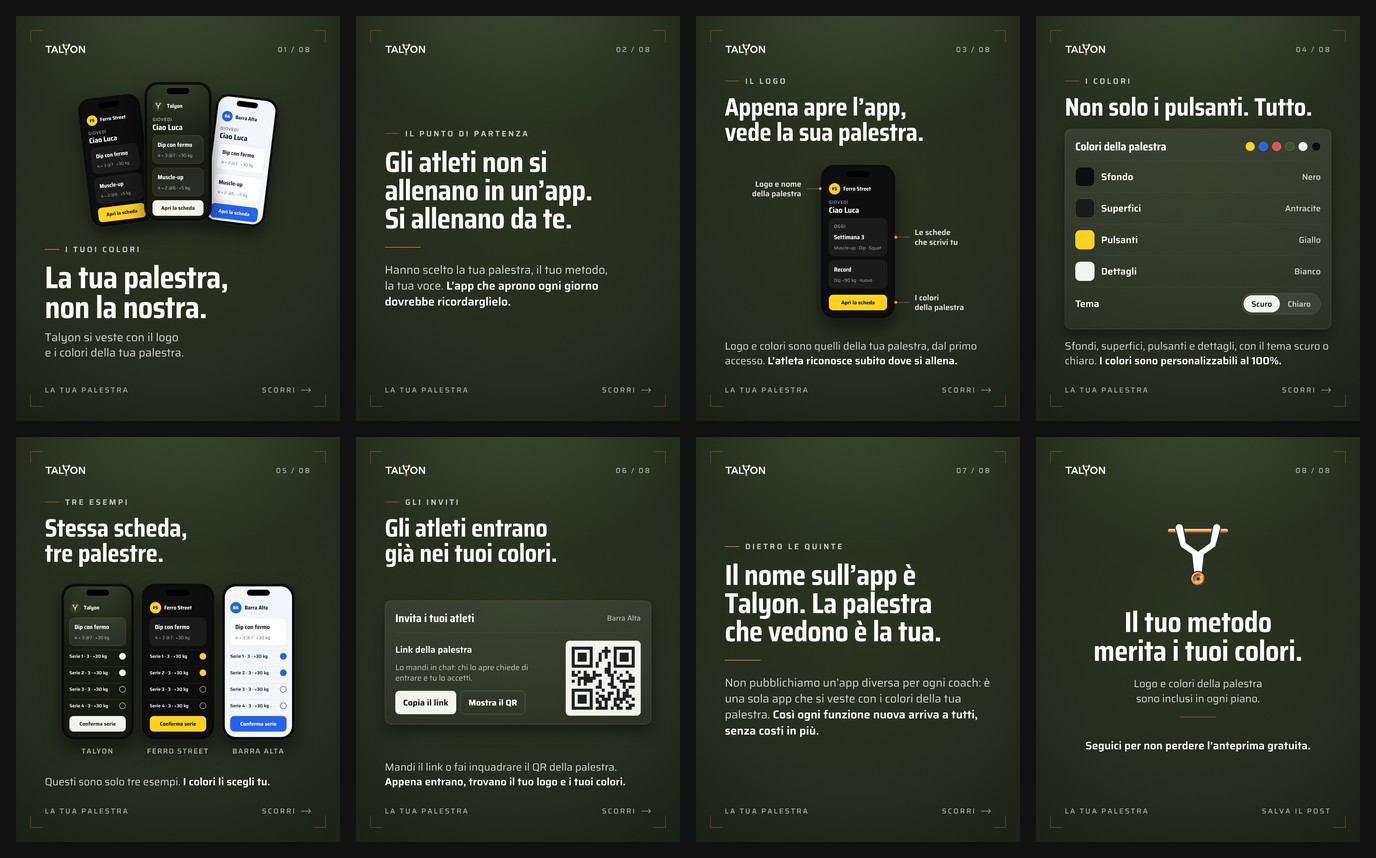
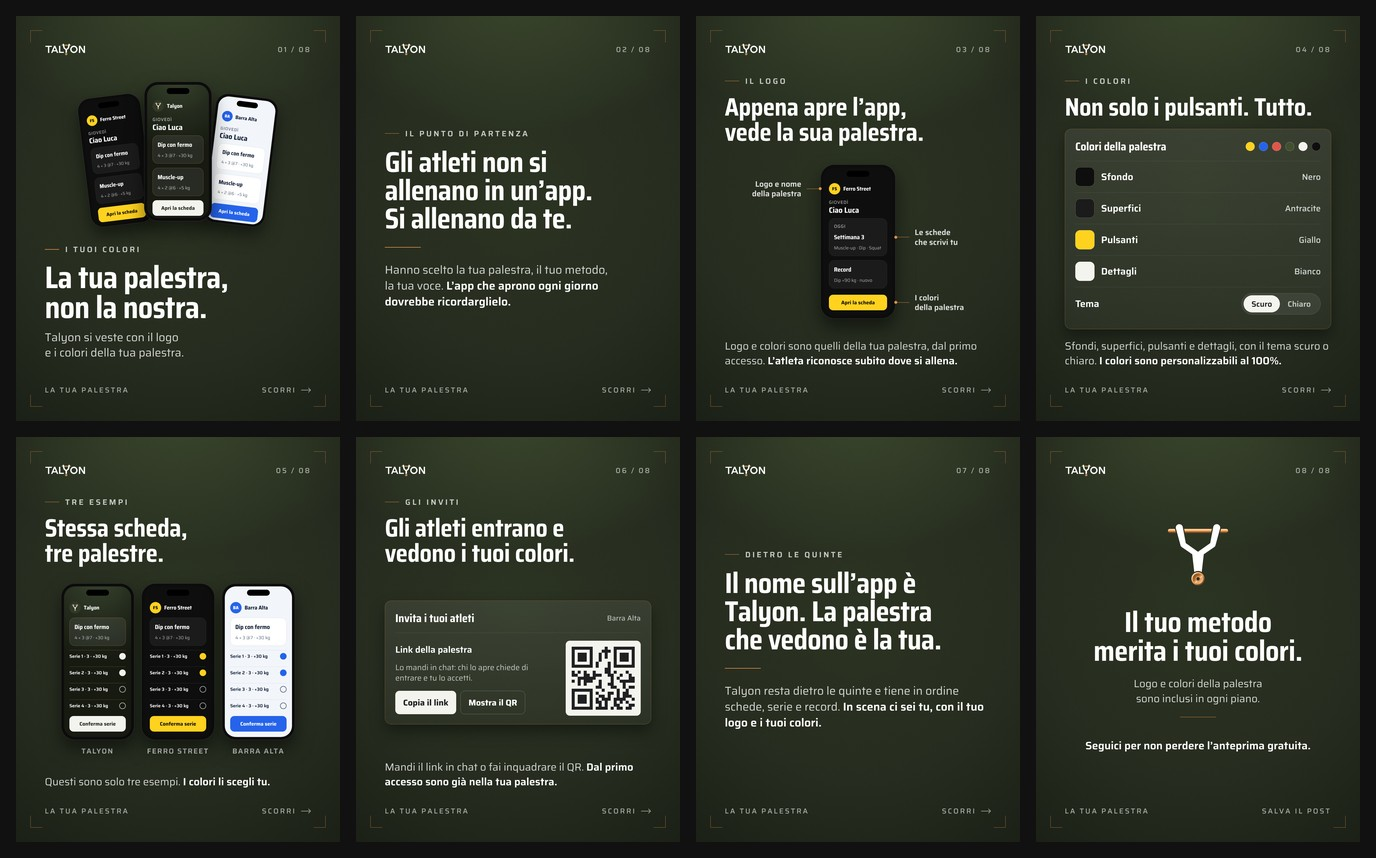
C05: nuovo titolo della slide 6 e testo della slide 7 in positivo
Claude-Session: https://claude.ai/code/session_01T254NvVD7skb81AqVxhgS6

diff --git a/caroselli/C05-la-tua-palestra/carosello.html b/caroselli/C05-la-tua-palestra/carosello.html
@@ -174,7 +174,7 @@
 <!-- 06 · Gli inviti -->
 <section class="slide" data-tipo="contenuto">
   <p class="etichetta">Gli inviti</p>
-  <h1>Gli atleti entrano già nei tuoi colori.</h1>
+  <h1>Gli atleti entrano e vedono i tuoi colori.</h1>
   <div class="visual">
     <div class="pannello">
       <div class="intestazione"><span>Invita i tuoi atleti</span><small>Barra Alta</small></div>
@@ -188,7 +188,7 @@
       </div>
     </div>
   </div>
-  <p class="testo">Mandi il link o fai inquadrare il QR della palestra. <b>Appena entrano, trovano il tuo logo e i tuoi colori.</b></p>
+  <p class="testo">Mandi il link in chat o fai inquadrare il QR. <b>Dal primo accesso sono già nella tua palestra.</b></p>
 </section>
 
 <!-- 07 · Dietro le quinte -->
@@ -196,7 +196,7 @@
   <p class="etichetta">Dietro le quinte</p>
   <h1>Il nome sull’app è Talyon. La palestra che vedono è la tua.</h1>
   <div class="linea"></div>
-  <p class="testo">Non pubblichiamo un’app diversa per ogni coach: è una sola app che si veste con i colori della tua palestra. <b>Così ogni funzione nuova arriva a tutti, senza costi in più.</b></p>
+  <p class="testo">Talyon resta dietro le quinte e tiene in ordine schede, serie e record. <b>In scena ci sei tu, con il tuo logo e i tuoi colori.</b></p>
 </section>
 
 <!-- 08 · Chiusura -->

diff --git a/kit/LEGGIMI.md b/kit/LEGGIMI.md
@@ -36,6 +36,7 @@ Emanuele scrive in italiano e vuole frasi brevi e semplici: capisce poco di codi
 - **Prodotto:** nomina solo le funzioni dell'elenco «Esistono». Mai una funzione «In arrivo» come se ci fosse già.
 - **Prezzi e offerte:** non nominarli, salvo che il tema lo richieda e Emanuele l'abbia chiesto. Mai «gratis» se qualcosa si paga, mai urgenza finta («ultimi posti», conti alla rovescia), mai «solo per chi commenta».
 - **Dati:** solo dati demo: Luca (−80 kg, massimali muscle-up +20, trazione +65, dip +90, squat 170, totale 345 kg); Marco R, Anna, Teo; palestre inventate «Ferro Street» (nero e giallo) e «Barra Alta» (chiaro e blu). Mai dati veri di atleti o palestre, mai Oplitia.
+- **Sempre in positivo:** racconta cosa fa Talyon, mai cosa non fa. Niente frasi che suonano come una giustificazione o un confronto implicito con un concorrente (es. «non pubblichiamo un'app diversa per ogni coach»). Indicazione di Emanuele sul C05.
 - **Concorrenti:** mai nominarli né denigrarli. Il confronto con i fogli resta sui fatti («importa il tuo foglio» sì, «i fogli sono un disastro» no).
 - **Regole di gara, formule, numeri, date:** solo se verificati su fonte ufficiale (es. regolamento FinalRep, final-rep.com). Se non sei sicuro, scrivi in modo generale o passa al tema dopo e dillo a Emanuele.
 - **Immagini:** niente persone, voci o volti generati con l'IA; niente prima e dopo del corpo; niente fisici in primo piano. Si mostrano schede, carichi, schermate stilizzate.
